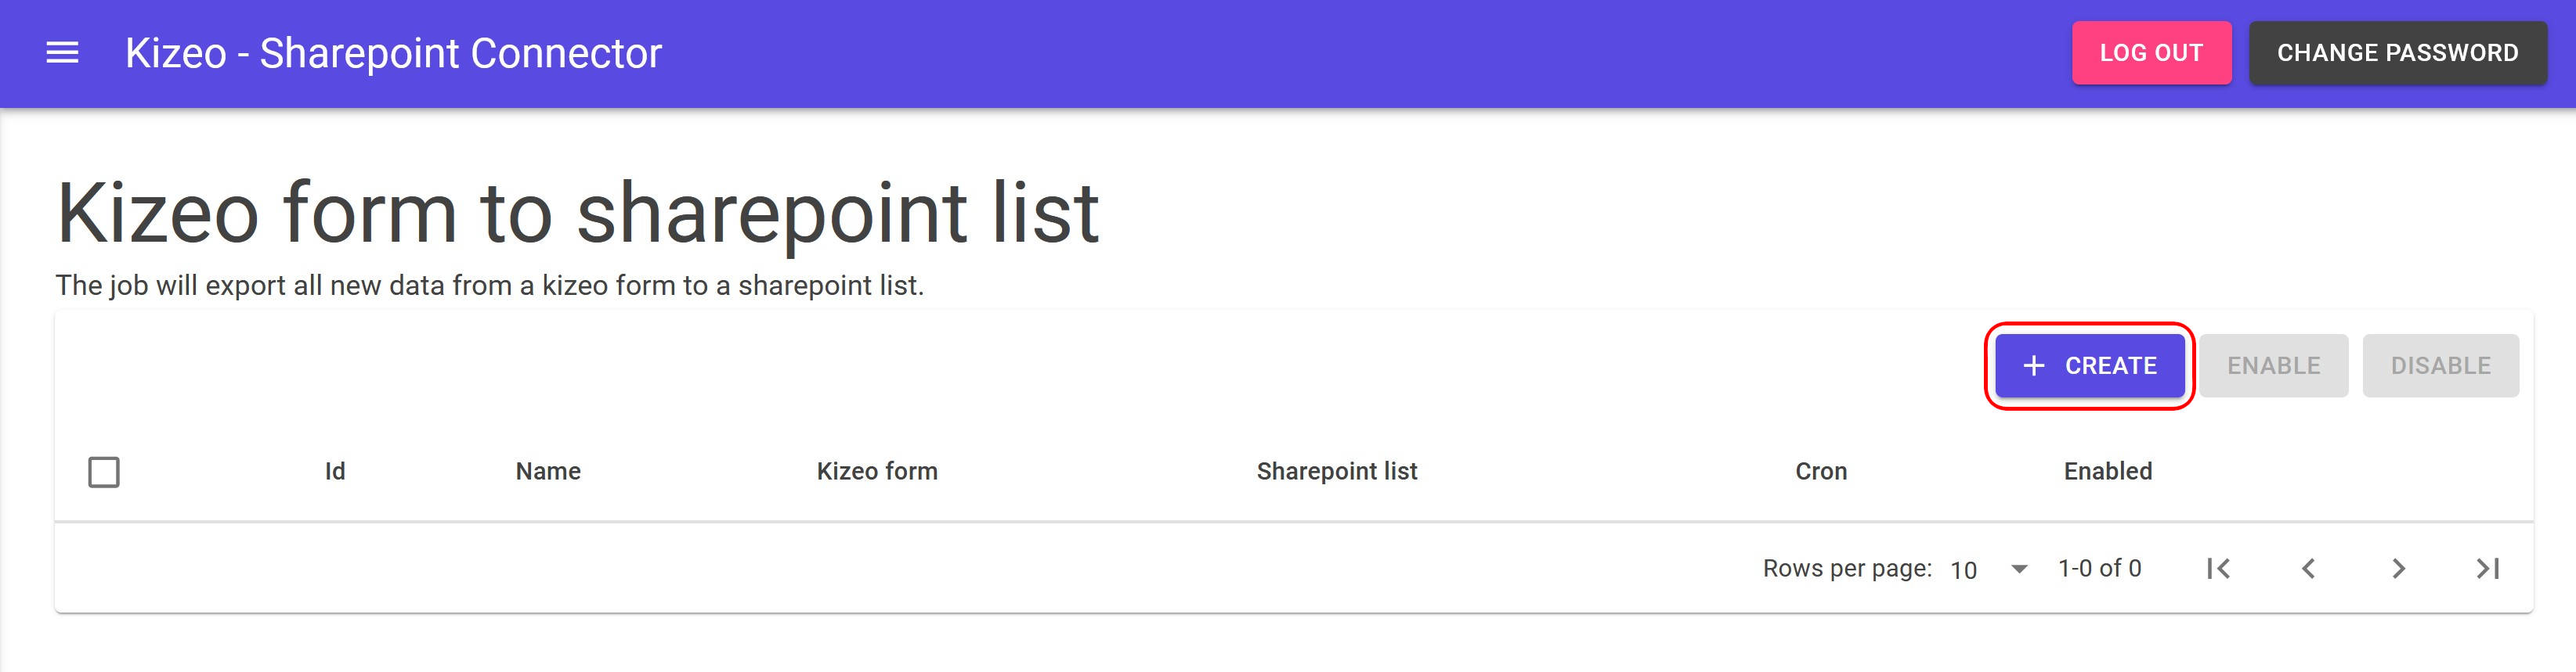
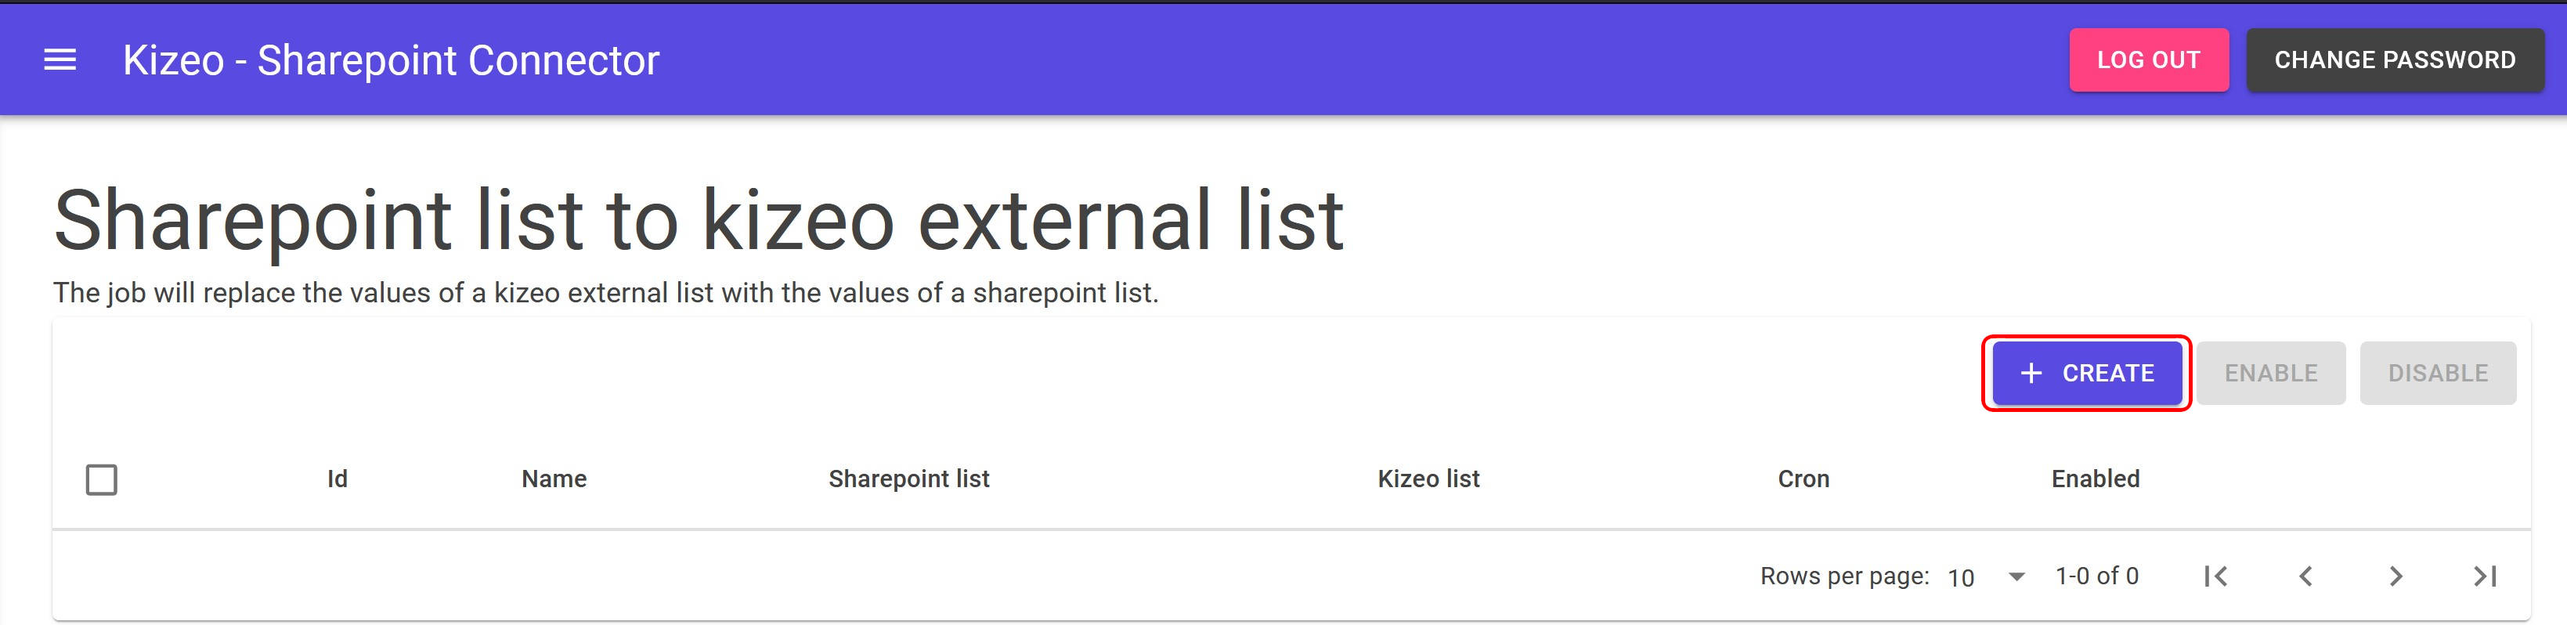
Update sp-update-kf-list.md Terminated

diff --git a/website/translated_docs/fr/sp-update-kf-list.md b/website/translated_docs/fr/sp-update-kf-list.md
@@ -4,30 +4,24 @@ title: Update an external kizeoforms list
 sidebar_label: Update external list kizeoForms
 ---
 
-## Mise à jour des listes Externes Kizeo Forms à partir des listes SharePoint
+## Mise à jour des listes Externes Kizeo Forms à partir des listes SharePoint (Sharepoint list to external list)
 
-![Upsate KF List][upkflist-01]
+<img src="/kizeo-forms-documentations/img/sp2/fr/Listex-01.jpg" alt="Accueil liste externe" />
 
-1. Ajoutez et mettre à jour la connexion les paramètres dans une liste externe.
-2. Sélectionnez la règle que vous souhaitez modifier et cliquez sur "Modifier".
-3. Sélectionnez la règle que vous souhaitez supprimer et cliquez sur "Supprimer".
+***CREATE*** pour créer une nouvelle tâche.
 
-## Ajouter ou mettre à jour
+<img src="/kizeo-forms-documentations/img/sp2/fr/Listex-02.jpg" alt="Fenêtre de création" />
 
-![Config][upkflist-02]
+- ***Name*** : Saisissez le nom de la tâche.
+- ***Sharepoint list*** : Sélectionnez le nom de votre liste SharePoint.
+- ***Kizeo external list*** : Sélectionnez le nom de votre liste externe Kizeo Forms.
+- ***Sharepoint field*** : Sélectionnez le nom de la colonne de votre liste SharePoint.
+- ***+ADD*** : Ajoute le tag de la colonne dans l'éditeur ***(2)***.
+- ***ADD LEVEL*** : Ajoute l'antislash **(\\)** comme séparateur des hiérarchies.
+- ***ADD REFERENCE*** : Ajoute le pipe **(|)** comme séparateur des références.
+- ***(1)*** : Dans cette zone vous sélectionnez la fréquence de l'exécution de la tâche.
+- ***SAVE*** : Enregistre la tâche.
 
-4. Récupération de l'identifiant de la bibliothèque de documents SharePoint (<a href="http://localhost:3000/kizeo-forms-documentations/docs/fr/sp-update-list" target="_blank">utiliser la même méthode que pour récupérer l'ID de la liste SharePoint</a>)
-5. Saisissez le numéro d'identification numérique du formulaire. (<a href="https://www.kizeo-forms.com/fr/obtenir-id-formulaire/" target="_blank">Comment obtenir un identifiant de formulaire</a>).
-6. Après avoir saisi l'ID de votre liste SharePoint, les noms de ses colonnes apparaîtront.
+<img src="/kizeo-forms-documentations/img/sp2/fr/Listex-03.jpg" alt="Fenêtre de création" />
 
-![external list structure][upkflist-03]
-
-Pour construire la structure des éléments de votre liste externe, utilisez les noms des colonnes en les sélectionnant dans la liste, séparés par les caractères "\\" et "|" pour les hiérarchies et les références.
-
-<!-- ************************** -->
-<!-- ***** Pictures List ****** --> 
-<!-- ************************** -->
-
-[upkflist-01]: /kizeo-forms-documentations/img/sp/en/update-kf-list-01.png
-[upkflist-02]: /kizeo-forms-documentations/img/sp/en/update-kf-list-02.png
-[upkflist-03]: /kizeo-forms-documentations/img/sp/en/update-kf-list-03.png
+La tâche que vous venez de paramétrer apparaît dans la liste. Sur la gauche, vous pouvez sélectionner chacune des tâches pour les activer ***ENABLE*** ou les désactiver ***DISABLE***. Sur la droite, le crayon vous permet d'éditer et de modifier les paramétrages. La poubelle supprime la tâche, la flamme l'exécute.

diff --git a/website/translated_docs/fr/sp-update-list.md b/website/translated_docs/fr/sp-update-list.md
@@ -6,11 +6,11 @@ sidebar_label: SharePoint List
 
 ## Transférer les données de kizeoForms vers une liste SharePoint (Form to Sharepoint list)
 
-<img src="/kizeo-forms-documentations/img/sp2/fr/Listex-01.jpg" alt="Accueil liste externe" />
+<img src="/kizeo-forms-documentations/img/sp2/fr/Listsp-01.jpg" alt="Accueil liste" />
 
 ***CREATE*** pour créer une nouvelle tâche.
 
-<img src="/kizeo-forms-documentations/img/sp2/fr/Listex-02.jpg" alt="Fenêtre de création" />
+<img src="/kizeo-forms-documentations/img/sp2/fr/Listsp-02.jpg" alt="Fenêtre de création" />
 
 1. Saisissez le nom de la tâche,
 2. sélectionnez le nom du formulaire,
@@ -22,7 +22,7 @@ sidebar_label: SharePoint List
 8. dans cette zone, vous sélectionnez la fréquence de l'exécution de la tâche,
 9. cliquez sur ***SAVE*** pour enregistrer la tâche.
 
-<img src="/kizeo-forms-documentations/img/sp2/fr/Listex-03.jpg" alt="Liste des Jobs" />
+<img src="/kizeo-forms-documentations/img/sp2/fr/Listsp-03.jpg" alt="Liste des Jobs" />
 
 La tâche que vous venez de paramétrer apparaît dans la liste. Sur la gauche, vous pouvez sélectionner chacune des tâches pour les activer ***ENABLE*** ou les désactiver ***DISABLE***. Sur la droite, le crayon vous permet d'éditer et de modifier les paramétrages. La poubelle supprime la tâche, la flamme l'exécute.
     
